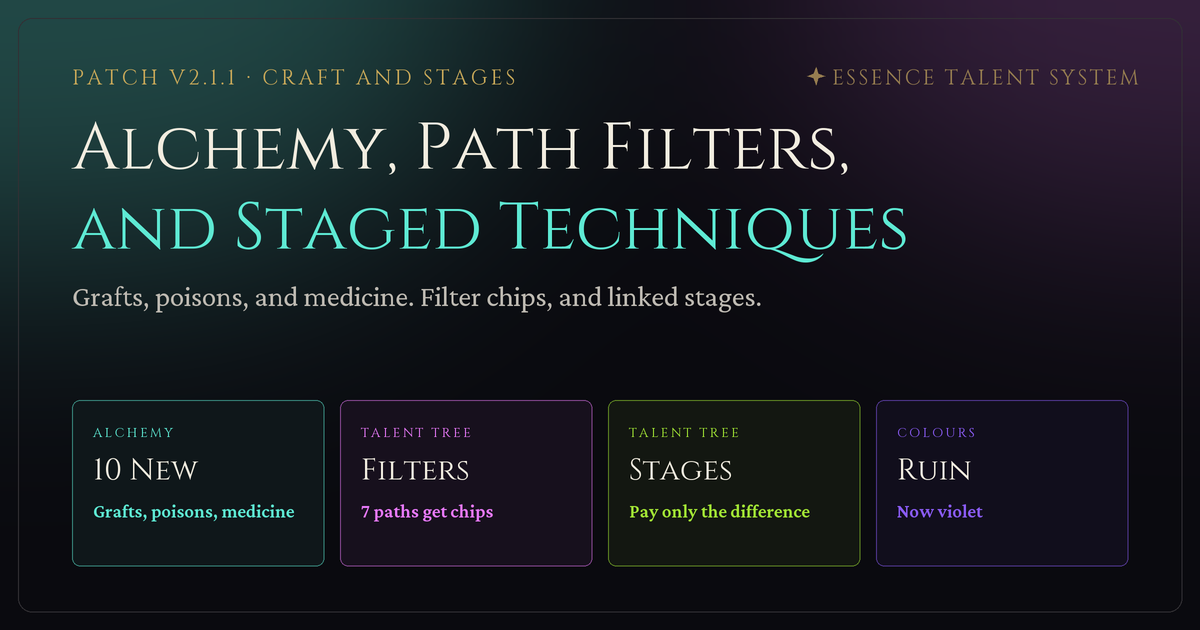
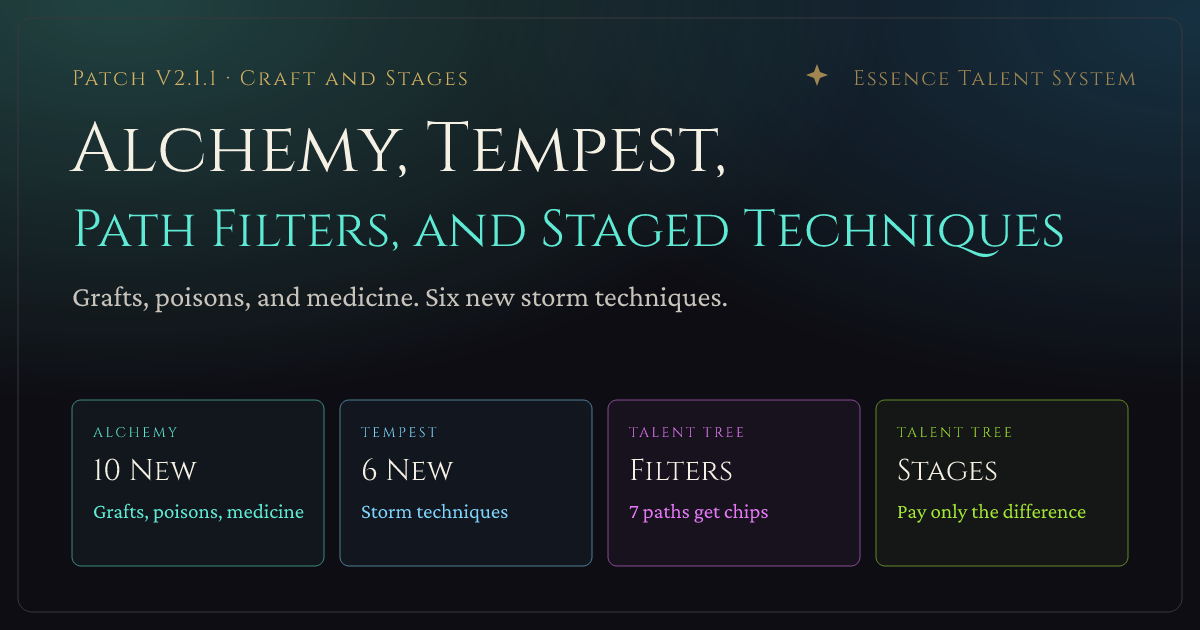
feat(cultivation): complete Tempest errata for V2.1.1

diff --git a/src/pages/patchNotes/PatchV2_1_1.tsx b/src/pages/patchNotes/PatchV2_1_1.tsx
@@ -9,8 +9,8 @@ import { AbilityChip, AbilityDialog, Chips, PathChip, Prose, Section } from './s
 import { Found, makeLookup } from './lookup';
 
 const TOC = [
-  ['tempest-errata', 'Tempest errata'],
   ['alchemy', 'Alchemy'],
+  ['tempest-errata', 'Tempest errata'],
   ['filters', 'Path filters'],
   ['staged', 'Staged techniques'],
   ['moved', 'Moved abilities'],
@@ -41,6 +41,7 @@ const PatchV2_1_1: React.FC = () => {
           <div className="mt-6 flex flex-wrap gap-x-8 gap-y-3 text-sm">
             {[
               [String(ALCHEMY.techniques.length), 'new Alchemy techniques'],
+              [String(TEMPEST_ERRATA.techniques.length), 'new Tempest techniques'],
               [String(FILTERS.length), 'paths with filters'],
               [String(STAGED.length), 'staged techniques linked']
             ].map(([value, label]) => (
@@ -63,25 +64,6 @@ const PatchV2_1_1: React.FC = () => {
         </nav>
 
         <div className="space-y-14 min-w-0">
-          <Section id="tempest-errata" kicker="Errata" title="Tempest">
-            <Prose>
-              <p>Stormshot replaces Lightning Arrow in Tempest. If you had Lightning Arrow learned, the app removes it and frees its Essence points when you load your character.</p>
-              <p>Thunderhead Judgment strikes a single target at Master. At Grandmaster, Red Lightning of Punishment blasts a 30-foot-radius sphere. Terrain of Tempest moves creatures and vehicles across the domain at initiative count 20, and The Last Shipwreck traps one creature in a shipwreck illusion. Terrain of Tempest and The Last Shipwreck require Consecrated Ground.</p>
-              <p>Stormborn Presence and Raincaller gain Domain Expansions on Consecrated Ground.</p>
-            </Prose>
-            <div className="arcane-panel px-4">
-              <div className="grid md:grid-cols-[150px_1fr] gap-2 md:gap-4 py-3">
-                <p className="font-display text-[11px] tracking-[0.2em] uppercase text-gold-dim md:pt-1">New techniques</p>
-                <Chips names={TEMPEST_ERRATA.techniques} pathId="tempest" lookup={find} onOpen={setOpen} />
-              </div>
-              <div className="grid md:grid-cols-[150px_1fr] gap-2 md:gap-4 py-3 border-t border-gold-subtle">
-                <p className="font-display text-[11px] tracking-[0.2em] uppercase text-gold-dim md:pt-1">Updated techniques</p>
-                <Chips names={TEMPEST_ERRATA.updated} pathId="tempest" lookup={find} onOpen={setOpen} />
-              </div>
-            </div>
-            <Link to="/?path=tempest" className="arcane-btn !px-4 !py-2 text-sm inline-flex items-center gap-2">Open the Tempest path <ArrowRight size={14} /></Link>
-          </Section>
-
           <Section id="alchemy" kicker="Immortal path" title="Alchemy">
             <Prose>
               <p>Alchemy gets crafted poisons, body grafts (claws and wings), and new medicine, all of Nilo's own invention, and its older techniques get Domain Expansions. Vital Essence Sublimation gets a fourth stage at Grandmaster, which can seal one of a poisoned creature's abilities. Suicide Fuse makes a creature you finish burst over everyone near it. Two Grandmaster techniques work only in your Sanctum: Eight Trigrams Furnace seals a creature in a burning furnace, and Myriad Poison Sanctum poisons the creatures you choose there. Twenty new spells fill out its poisons, acids, explosives, medicine, and transmutation, from Wine Bomb to Bite of the King. Click any ability to read it.</p>
@@ -119,6 +101,26 @@ const PatchV2_1_1: React.FC = () => {
               </ul>
             </div>
             <Link to="/?path=alchemy" className="arcane-btn !px-4 !py-2 text-sm inline-flex items-center gap-2">Open the Alchemy path <ArrowRight size={14} /></Link>
+          </Section>
+
+          <Section id="tempest-errata" kicker="Errata" title="Tempest">
+            <Prose>
+              <p>Stormshot replaces Lightning Arrow in Tempest. If you had Lightning Arrow learned, the app removes it and frees its Essence points when you load your character.</p>
+              <p>At Master, Thunderhead Judgment can knock one target prone, and Storm Broadside rolls a separate attack for each of its four bolts. At Grandmaster, Red Lightning of Punishment blasts a 30-foot-radius sphere. Creatures that fail the save take 6d12 lightning damage and are cursed. Each attack that hits a cursed creature deals an extra 2d8 lightning damage until the curse is removed.</p>
+              <p>Terrain of Tempest moves creatures and vehicles across the domain at initiative count 20, and The Last Shipwreck traps one creature in a shipwreck illusion. Both techniques require Consecrated Ground.</p>
+              <p>On your Consecrated Ground, you can center Storm Broadside and Red Lightning of Punishment up to 240 feet away. Stormborn Presence and Raincaller also gain Domain Expansions.</p>
+            </Prose>
+            <div className="arcane-panel px-4">
+              <div className="grid md:grid-cols-[150px_1fr] gap-2 md:gap-4 py-3">
+                <p className="font-display text-[11px] tracking-[0.2em] uppercase text-gold-dim md:pt-1">New techniques</p>
+                <Chips names={TEMPEST_ERRATA.techniques} pathId="tempest" lookup={find} onOpen={setOpen} />
+              </div>
+              <div className="grid md:grid-cols-[150px_1fr] gap-2 md:gap-4 py-3 border-t border-gold-subtle">
+                <p className="font-display text-[11px] tracking-[0.2em] uppercase text-gold-dim md:pt-1">Updated techniques</p>
+                <Chips names={TEMPEST_ERRATA.updated} pathId="tempest" lookup={find} onOpen={setOpen} />
+              </div>
+            </div>
+            <Link to="/?path=tempest" className="arcane-btn !px-4 !py-2 text-sm inline-flex items-center gap-2">Open the Tempest path <ArrowRight size={14} /></Link>
           </Section>
 
           <Section id="filters" kicker="Talent tree" title="Path filters">

diff --git a/src/components/cultivation/consts/v2/tempest.tsx b/src/components/cultivation/consts/v2/tempest.tsx
@@ -124,6 +124,21 @@ export const tempestAbilities = [
     domainText: "Its range is 240 feet.",
   },
   {
+    id: "tempest_master_storm_broadside",
+    name: "Storm Broadside",
+    description: "As an action, you gather a bank of storm clouds over a point you can see within 120 feet and bring down up to four lightning bolts in quick succession. For each bolt, choose one creature you can see within 20 feet of that point and make a ranged spell attack against it. On a hit, the bolt deals 2d8 lightning damage. Resolve each bolt before choosing the next target. You can target the same creature with multiple bolts.",
+    tier: "master",
+    isActive: true,
+    isPassive: false,
+    isSpell: false,
+    isCantrip: false,
+    author: "Umberlee",
+    location: "Leatrux",
+    activation: "action",
+    domain: "expansion",
+    domainText: "You can choose a point within 240 feet.",
+  },
+  {
     id: "tempest_grandmaster_terrain_of_tempest",
     name: "Terrain of Tempest",
     description: "As a bonus action on your Consecrated Ground, you raise a sea storm across the entire domain for 1 minute. When you raise the storm, choose any number of creatures and land, water, or air vehicles you can see there. The gales make the domain difficult terrain for those targets until you choose again or the storm ends.\n\nAt initiative count 20 each round while the storm lasts, choose targets again. A surge lit by lightning pushes each chosen target up to 15 feet horizontally in the same direction. Choose that direction or roll a d8, with 1 pointing north and the other results proceeding clockwise in 45-degree steps.\n\nA vehicle moves only through spaces it can traverse in its current mode of travel. Its passengers and cargo move with it and count as having been moved by that surge.",
@@ -140,7 +155,7 @@ export const tempestAbilities = [
   {
     id: "tempest_grandmaster_red_lightning_of_punishment",
     name: "Red Lightning of Punishment",
-    description: "As an action, you call down a bolt of red lightning that bursts in a 30-foot-radius sphere centered on a point you can see within 120 feet. Each creature in the sphere makes a Dexterity saving throw against your essence ability save DC, taking 10d8 lightning damage on a failure or half as much on a success.",
+    description: "As an action, you call down a bolt of red lightning that bursts in a 30-foot-radius sphere centered on a point you can see within 120 feet. Each creature in the sphere makes a Dexterity saving throw against your essence ability save DC. On a failure, it takes 6d12 lightning damage and is cursed. On a success, it takes half as much damage only.\n\nAn attack that hits a cursed creature deals an extra 2d8 lightning damage. The curse lasts until ended by *Remove Curse* or another effect that removes curses.",
     tier: "grandmaster",
     isActive: true,
     isPassive: false,
@@ -149,6 +164,8 @@ export const tempestAbilities = [
     author: "Umberlee",
     location: "Leatrux",
     activation: "action",
+    domain: "expansion",
+    domainText: "You can choose a point within 240 feet.",
   },
   {
     id: "tempest_grandmaster_the_last_shipwreck",

diff --git a/src/data/patchNotes/v2-1-1.ts b/src/data/patchNotes/v2-1-1.ts
@@ -8,8 +8,8 @@ export const PATCH = {
   version: 'V2.1.1',
   name: 'Craft and Stages',
   date: '2026-11-10',
-  title: 'Alchemy, Path Filters, and Staged Techniques',
-  summary: 'Alchemy gets crafted poisons, body grafts, new medicine, and Domain Expansions. Seven paths get filter chips, and techniques learned in stages are now linked, so each upgrade costs only the difference. The Tempest errata adds five storm techniques and replaces Lightning Arrow with Stormshot.',
+  title: 'Alchemy, Tempest, Path Filters, and Staged Techniques',
+  summary: 'Alchemy gets crafted poisons, body grafts, new medicine, and Domain Expansions. Seven paths get filter chips, and techniques learned in stages are now linked, so each upgrade costs only the difference. The Tempest errata adds six storm techniques and replaces Lightning Arrow with Stormshot.',
   image: '/og/patch-notes-v2-1-1.png'
 };
 
@@ -38,7 +38,7 @@ export const ALCHEMY = {
 };
 
 export const TEMPEST_ERRATA = {
-  techniques: ['Stormshot', 'Thunderhead Judgment', 'Terrain of Tempest', 'Red Lightning of Punishment', 'The Last Shipwreck'],
+  techniques: ['Stormshot', 'Thunderhead Judgment', 'Storm Broadside', 'Terrain of Tempest', 'Red Lightning of Punishment', 'The Last Shipwreck'],
   updated: ['Stormborn Presence', 'Raincaller']
 };
 

diff --git a/src/pages/patchNotes/shared.tsx b/src/pages/patchNotes/shared.tsx
@@ -2,7 +2,7 @@ import React, { useEffect } from 'react';
 import { X } from 'lucide-react';
 import AbilityMarkdown from '../../components/essences/AbilityMarkdown';
 import { SystemPath, tint } from '../../talents/model';
-import { PathSigil } from '../../talents/ui';
+import { DomainLine, PathSigil } from '../../talents/ui';
 import { Found, byRank, makeLookup, rankLabel } from './lookup';
 
 /* Building blocks shared by every patch's notes. */
@@ -84,8 +84,9 @@ export const AbilityDialog: React.FC<{ found: Found | null; onClose: () => void 
           </div>
           <button onClick={onClose} className="p-1.5 text-mist hover:text-parchment rounded hover:bg-charcoal" aria-label="Close"><X size={18} /></button>
         </header>
-        <div className="flex-1 overflow-y-auto p-5">
+        <div className="flex-1 overflow-y-auto p-5 space-y-3">
           <AbilityMarkdown content={ability.description} />
+          <DomainLine ability={ability} path={path} />
         </div>
       </div>
     </div>

diff --git a/data/cultivation/v2/tempest.md b/data/cultivation/v2/tempest.md
@@ -493,6 +493,26 @@ As an action, you gather a thunderhead around one creature you can see within 12
 
 ---
 
+### Storm Broadside
+
+```yaml
+id: tempest_master_storm_broadside
+tier: master
+isActive: true
+isPassive: false
+isSpell: false
+isCantrip: false
+author: Umberlee
+location: Leatrux
+activation: action
+domain: expansion
+domainText: You can choose a point within 240 feet.
+```
+
+As an action, you gather a bank of storm clouds over a point you can see within 120 feet and bring down up to four lightning bolts in quick succession. For each bolt, choose one creature you can see within 20 feet of that point and make a ranged spell attack against it. On a hit, the bolt deals 2d8 lightning damage. Resolve each bolt before choosing the next target. You can target the same creature with multiple bolts.
+
+---
+
 ## Grandmaster Tier
 
 ### Terrain of Tempest
@@ -530,9 +550,13 @@ isCantrip: false
 author: Umberlee
 location: Leatrux
 activation: action
+domain: expansion
+domainText: You can choose a point within 240 feet.
 ```
 
-As an action, you call down a bolt of red lightning that bursts in a 30-foot-radius sphere centered on a point you can see within 120 feet. Each creature in the sphere makes a Dexterity saving throw against your essence ability save DC, taking 10d8 lightning damage on a failure or half as much on a success.
+As an action, you call down a bolt of red lightning that bursts in a 30-foot-radius sphere centered on a point you can see within 120 feet. Each creature in the sphere makes a Dexterity saving throw against your essence ability save DC. On a failure, it takes 6d12 lightning damage and is cursed. On a success, it takes half as much damage only.
+
+An attack that hits a cursed creature deals an extra 2d8 lightning damage. The curse lasts until ended by *Remove Curse* or another effect that removes curses.
 
 ---
 

diff --git a/docs/cultivation-paths-design.md b/docs/cultivation-paths-design.md
@@ -64,7 +64,7 @@ The archived sixteen-path source remains under [`data/cultivation/archive/v2.2/`
 
 ## Balance and implementation
 
-The current roster has 227 custom talents (157 active, 70 passive), 41 cantrips, and 388 leveled spells, for 656 total entries. Its path totals range from 24 to 79 entries; the detailed table is in [`data/cultivation/README.md`](../data/cultivation/README.md). The lower totals belong to focused paths such as Love, Lunar, and Tempest, while Sky and Alchemy cover wider sets of effects. Counts help expose where choices concentrate; they do not measure power. Review damage, control, defense, healing, mobility, and action economy in play.
+The current roster has 228 custom talents (158 active, 70 passive), 41 cantrips, and 388 leveled spells, for 657 total entries. Its path totals range from 24 to 79 entries; the detailed table is in [`data/cultivation/README.md`](../data/cultivation/README.md). The lower totals belong to focused paths such as Love, Lunar, and Tempest, while Sky and Alchemy cover wider sets of effects. Counts help expose where choices concentrate; they do not measure power. Review damage, control, defense, healing, mobility, and action economy in play.
 
 About half of a path's abilities can answer its domain: weaker ones gain a one-line Domain Expansion there, and a few Grandmaster or higher techniques work only there. Spells and cantrips are never domain-bound. Undertow is the first path built this way; the reasoning, rules, and modifier catalogue are in [`domain-expansion-design.md`](domain-expansion-design.md).
 

diff --git a/data/cultivation/README.md b/data/cultivation/README.md
@@ -4,7 +4,7 @@ The canonical catalog intended for V2 groups campaign-relevant paths into **Prim
 
 Each named spell or cantrip belongs to exactly one path. The generator rejects duplicate spell and cantrip titles and duplicate ability IDs. Spellcasting paths need at least one cantrip and one leveled spell; Heart is explicitly marked as a custom-talent path without a spell list.
 
-The catalog contains 227 custom talents (157 active and 70 passive), 41 cantrips, and 388 leveled spells, for 656 entries. Path totals range from 24 to 79 entries. These counts measure available choices; they do not rate mechanical power.
+The catalog contains 228 custom talents (158 active and 70 passive), 41 cantrips, and 388 leveled spells, for 657 entries. Path totals range from 24 to 79 entries. These counts measure available choices; they do not rate mechanical power.
 
 | Family | Path | Active / passive | Cantrips | Spells | Total |
 | --- | --- | ---: | ---: | ---: | ---: |
@@ -17,7 +17,7 @@ The catalog contains 227 custom talents (157 active and 70 passive), 41 cantrips
 | Divine | Lunar | 6 / 1 | 1 | 18 | 26 |
 | Divine | Providence | 7 / 2 | 3 | 22 | 34 |
 | Divine | Love | 2 / 0 | 2 | 20 | 24 |
-| Divine | Tempest | 10 / 2 | 1 | 18 | 31 |
+| Divine | Tempest | 11 / 2 | 1 | 18 | 32 |
 | Divine | Undertow | 7 / 3 | 2 | 20 | 32 |
 | Divine | Ruin | 11 / 3 | 3 | 25 | 42 |
 | Divine | Pestilence | 9 / 4 | 2 | 25 | 40 |
